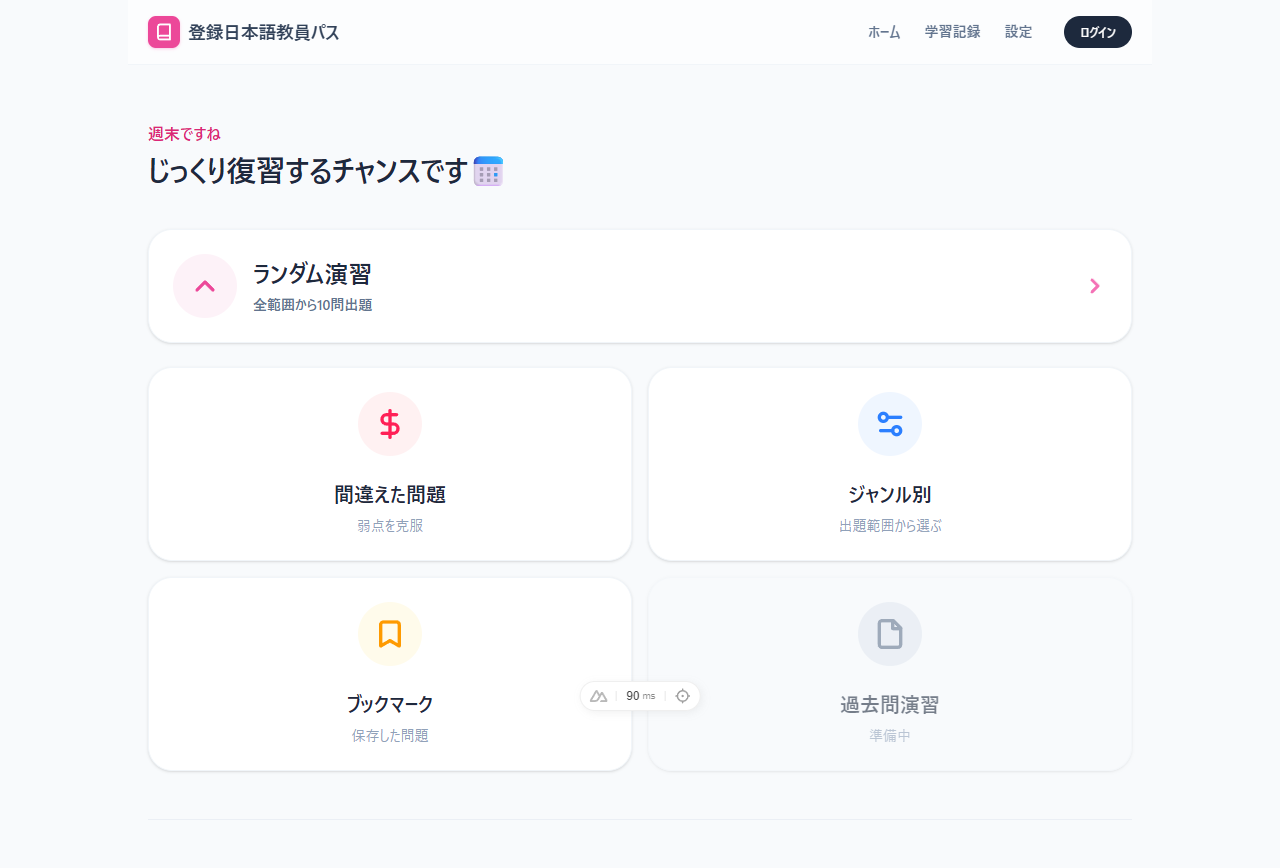
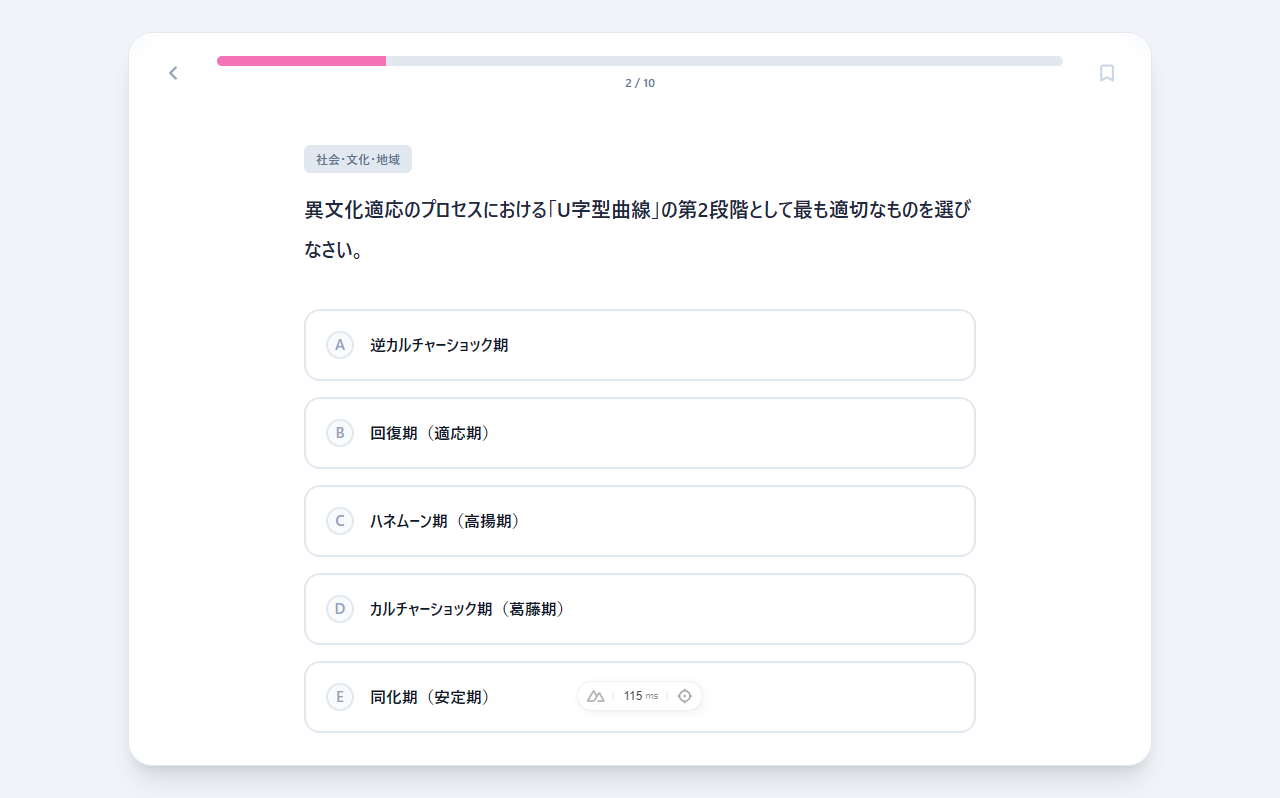
fix: add currentIndex to session schema

diff --git a/app/lib/collections.ts b/app/lib/collections.ts
@@ -50,6 +50,7 @@ export const sessionSchema = z.object({
   incorrectQuestionIds: z.array(z.string()).optional(),
   correctCount: z.number().default(0),
   questionCount: z.number(),
+  currentIndex: z.number().default(0),
   completedAt: z.string().optional(),
 });
 